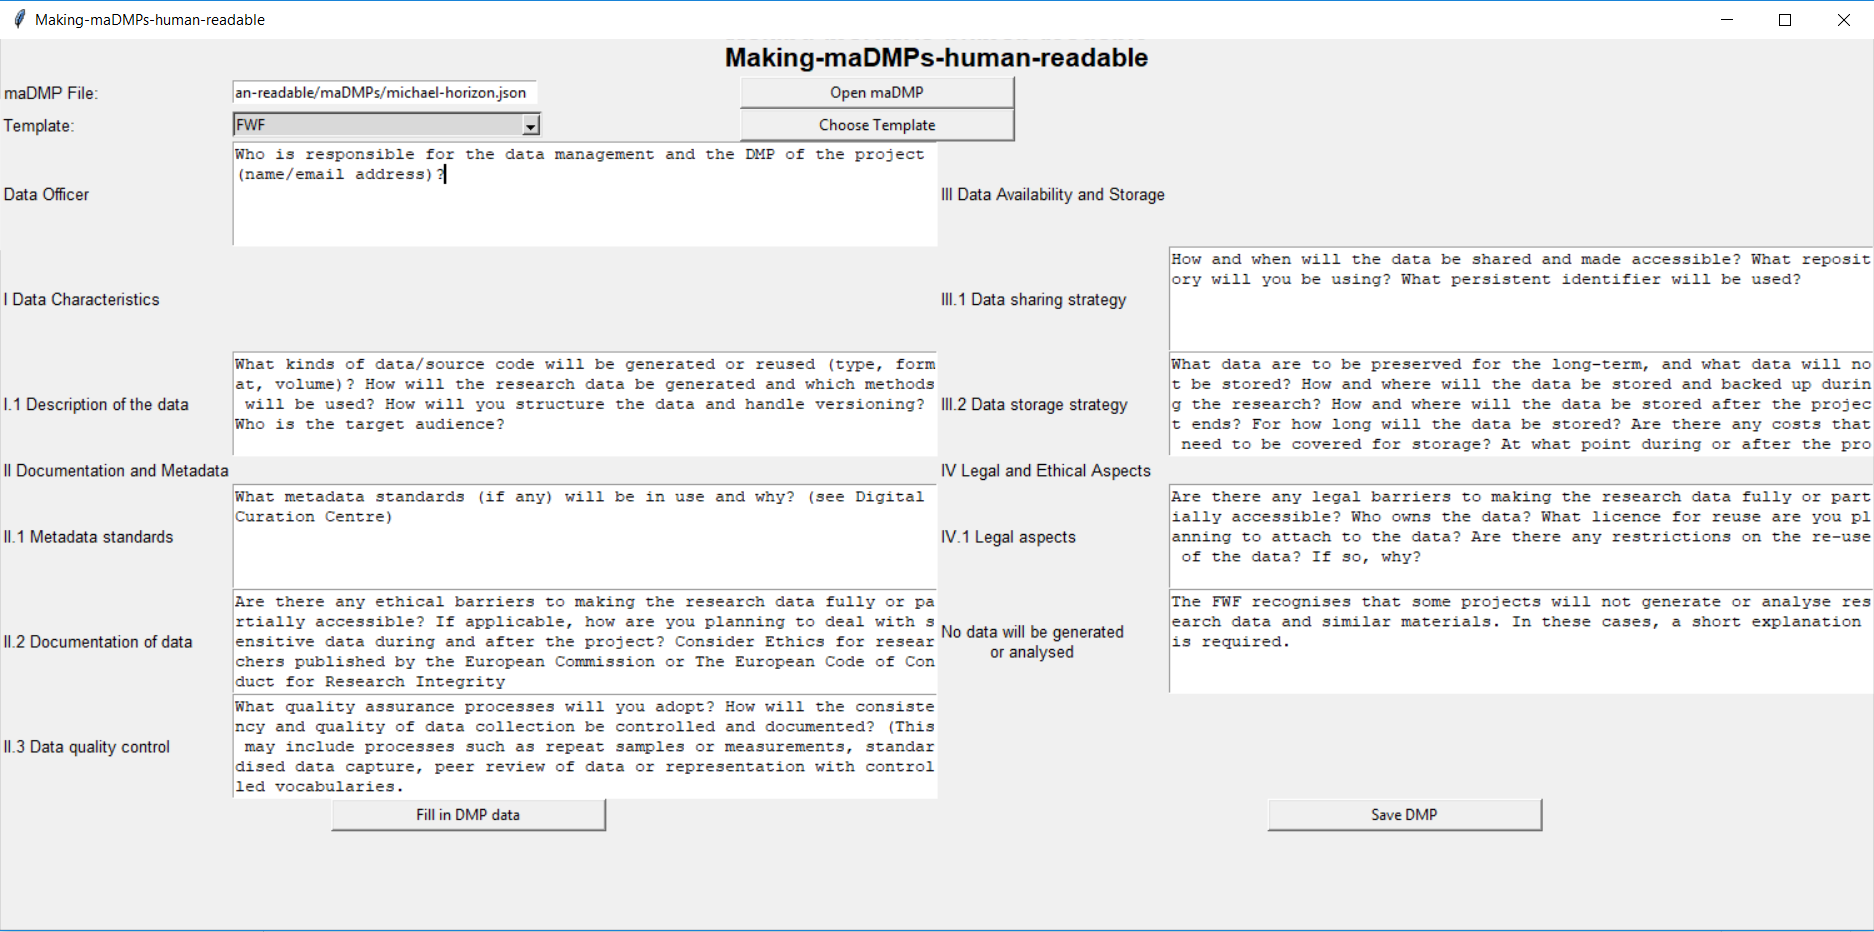
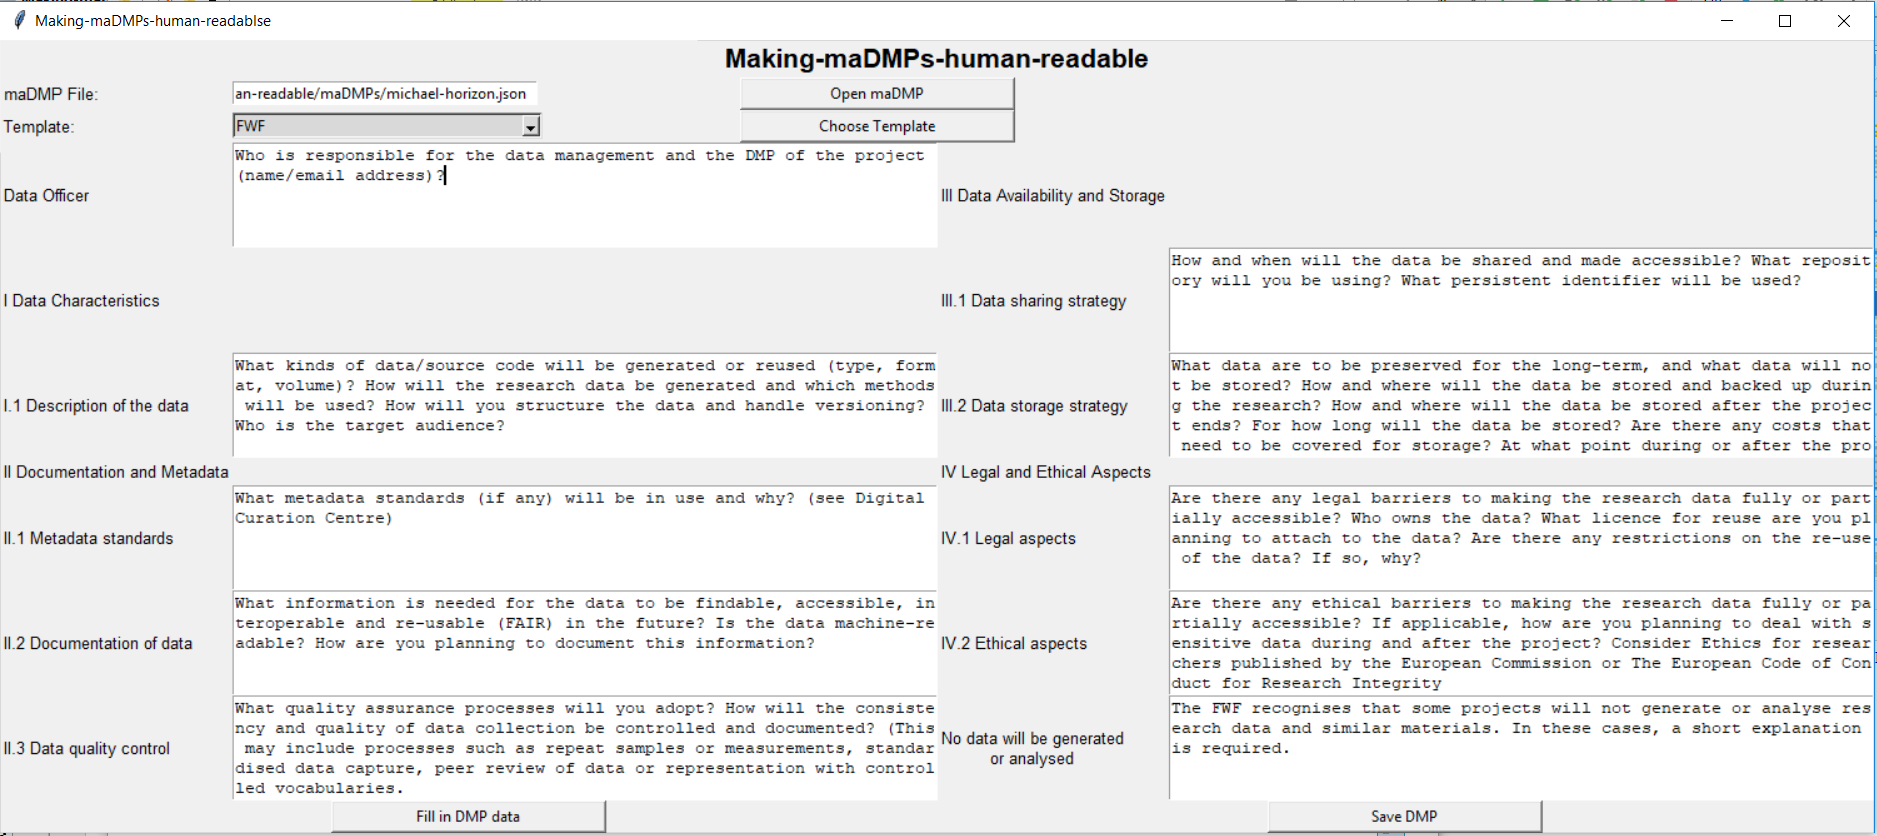
new fwf picture changed gui layout

diff --git a/scripts/gui.py b/scripts/gui.py
@@ -480,14 +480,14 @@ def createFWFItems():
     ethicalText2 = tk.Text(root, width=70, height=5)
     ethicalText2.insert(END,
                         "Are there any ethical barriers to making the research data fully or partially accessible? If applicable, how are you planning to deal with sensitive data during and after the project? Consider Ethics for researchers published by the European Commission or The European Code of Conduct for Research Integrity")
-    ethicalText2.grid(row=9, column=1, columnspan=3, sticky=W)
+    ethicalText2.grid(row=9, column=4, columnspan=3, sticky=W)
 
     generatedDataLabel = tk.Label(root, text="No data will be generated\nor analysed", font="Helvetica 10")
-    generatedDataLabel.grid(row=9, column=3, sticky=W)
+    generatedDataLabel.grid(row=10, column=3, sticky=W)
     generatedDataText = tk.Text(root, width=70, height=5)
     generatedDataText.insert(END,
                              "The FWF recognises that some projects will not generate or analyse research data and similar materials. In these cases, a short explanation is required.")
-    generatedDataText.grid(row=9, column=4, columnspan=3, sticky=W)
+    generatedDataText.grid(row=10, column=4, columnspan=3, sticky=W)
 
 
 #############################
